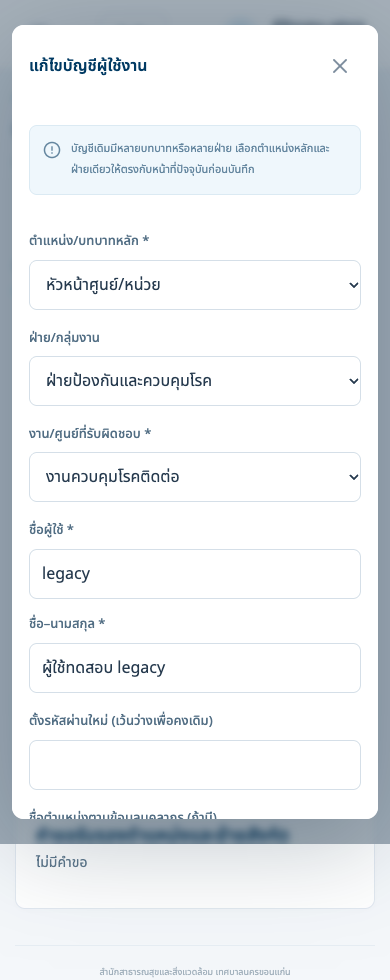
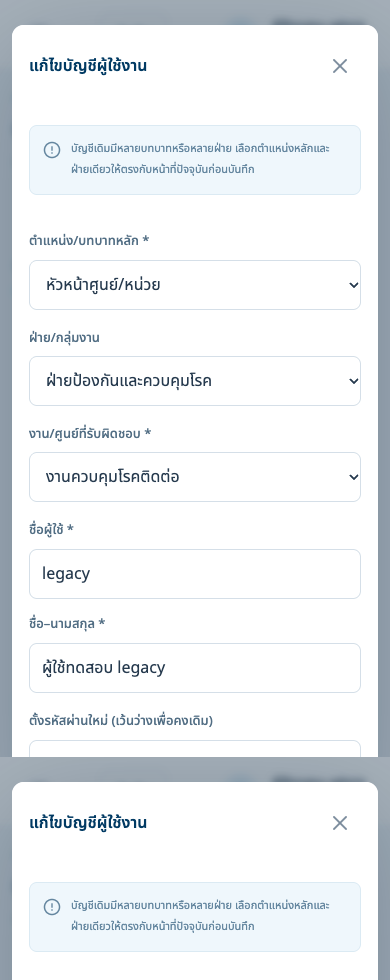
Match application blue theme to login palette

diff --git a/src/styles.css b/src/styles.css
@@ -7,6 +7,7 @@
   --deep: #001f36;
   --sky: #00adff;
   --blue: #027fbd;
+  --brand-gradient: linear-gradient(135deg, var(--navy), var(--deep));
   --line: #e1e8f0;
   --muted: #78899a;
   --radius: 12px;
@@ -1783,7 +1784,7 @@ footer {
   background: white;
 }
 .login-brand {
-  background: linear-gradient(135deg, #013a63, #001f36);
+  background: var(--brand-gradient);
   padding: 48px 65px 32px;
   display: flex;
   flex-direction: column;
@@ -3775,19 +3776,20 @@ footer {
 .community-map{width:100%;height:auto;max-height:420px;display:block;background:#f8fafc;border-radius:12px;margin:18px 0}.community-map g{cursor:pointer}.community-map g:focus circle{stroke:#073e61;stroke-width:4}.community-map text{fill:#31536d}.scope-activity summary{font-weight:600;cursor:pointer}.period-comparison{margin-bottom:20px}.scope-account .button{margin:5px}.scope-cards .button{white-space:normal}
 .login-page{min-height:100vh;background:#f3f7fb;padding:40px 20px;display:flex;justify-content:center;align-items:flex-start}.login-page>.panel{width:min(100%,620px);margin:0 auto}.registration-seal{width:64px;height:64px;object-fit:contain}.login-page h1{font-size:26px;margin:12px 0}.login-page .form{gap:20px}
 
-/* Reference e-office navigation: direct destinations and a calm green rail. */
+/* Shared login and application blue palette. */
 .sidebar {
-  background: #14412f;
-  border-color: #214f3d;
-  color: #eaf4ee;
+  background: var(--navy);
+  background-image: var(--brand-gradient);
+  border-color: var(--navy);
+  color: #eaf5fc;
 }
 .sidebar .brand {
   color: #fff;
-  border-top-color: #78b59b;
+  border-top-color: var(--sky);
   padding-bottom: 16px;
 }
 .sidebar .brand span {
-  color: #b9d4c5;
+  color: #b9d6ed;
 }
 .sidebar .workspace {
   background: #ffffff0b;
@@ -3795,15 +3797,15 @@ footer {
   margin-bottom: 20px;
 }
 .sidebar .workspace b {
-  color: #f2faf5;
+  color: #f2f8ff;
 }
 .sidebar .workspace small,
 .sidebar .nav-label {
-  color: #bdd4c6;
+  color: #bdd8eb;
 }
 .sidebar .workspace-symbol {
   background: #ffffff17;
-  color: #ceebdc;
+  color: #cce8fa;
 }
 .sidebar nav {
   flex: 1;
@@ -3811,7 +3813,7 @@ footer {
   padding-bottom: 14px;
 }
 .sidebar nav button {
-  color: #eaf4ee;
+  color: #eaf5fc;
   min-height: 45px;
   padding: 11px 12px;
 }
@@ -3819,9 +3821,9 @@ footer {
   background: #ffffff12;
 }
 .sidebar nav button.active {
-  color: #14412f;
-  background: #eaf4ee;
-  box-shadow: none;
+  color: var(--navy);
+  background: #eaf5fc;
+  box-shadow: inset 3px 0 var(--sky);
 }
 .sidebar-bottom {
   border-color: #ffffff22;
@@ -3830,7 +3832,7 @@ footer {
 }
 .sidebar-bottom a,
 .sidebar-bottom span {
-  color: #bfd9cb;
+  color: #bdd8eb;
 }
 .project-card {
   scroll-margin-top: 100px;
@@ -3842,13 +3844,13 @@ footer {
   max-width: none;
 }
 .project-drop {
-  border: 1px dashed #83ab97;
-  background: #f4faf6;
+  border: 1px dashed #9cc7e0;
+  background: #f2f8fc;
   border-radius: 12px;
   padding: 18px;
 }
 .project-drop small {
-  color: #526c60;
+  color: #57788e;
   display: block;
   margin-top: 8px;
 }
@@ -3881,7 +3883,7 @@ footer {
   gap: 18px;
   font-size: 13px;
   margin: 18px 0;
-  color: #2e6b4d;
+  color: var(--navy);
 }
 .calendar-legend span:nth-child(2) {
   color: #197aab;
@@ -3897,7 +3899,7 @@ footer {
 .schedule-weekday {
   text-align: center;
   padding: 10px 0;
-  color: #60756b;
+  color: #60798d;
   font-size: 13px;
 }
 .schedule-day {
@@ -3911,14 +3913,14 @@ footer {
   overflow: hidden;
 }
 .schedule-day:hover {
-  background: #f5faf7;
+  background: #f3f9fd;
 }
 .schedule-day.is-today {
-  box-shadow: inset 0 0 0 2px #43846a;
+  box-shadow: inset 0 0 0 2px var(--blue);
 }
 .schedule-day.is-selected {
-  border-color: #14412f;
-  background: #edf6f0;
+  border-color: var(--navy);
+  background: #edf6fd;
 }
 .schedule-day time {
   display: block;
@@ -3926,7 +3928,7 @@ footer {
   margin-bottom: 6px;
 }
 .schedule-day small {
-  color: #61756b;
+  color: #60798d;
   font-size: 11px;
 }
 .schedule-chip {
@@ -3934,8 +3936,8 @@ footer {
   border-radius: 5px;
   margin-top: 4px;
   padding: 3px 5px;
-  background: #e3f0e7;
-  color: #215239;
+  background: #e8f3fc;
+  color: var(--navy);
   white-space: nowrap;
   text-overflow: ellipsis;
   overflow: hidden;

diff --git a/docs/PROJECT-AUTOMATION.md b/docs/PROJECT-AUTOMATION.md
@@ -34,7 +34,7 @@
 
 ## หน้าจอ
 
-แถบข้างสีเขียวตามตัวอย่าง มีทางเข้าโดยตรง: รายงานจาก LINE, เขียนรายงาน, แดชบอร์ดของฉัน, ติดตามโครงการ, ปฏิทิน, แดชบอร์ดหน่วยงาน/สำนักตามสิทธิ์ และเมนูเดิมสำหรับคลัง รายงานสรุป พื้นที่งาน และดูแลระบบ มือถือใช้ปุ่มเปิด–ปิดเมนู
+แถบข้างโทนฟ้าเดียวกับหน้า Login มีทางเข้าโดยตรง: รายงานจาก LINE, เขียนรายงาน, แดชบอร์ดของฉัน, ติดตามโครงการ, ปฏิทิน, แดชบอร์ดหน่วยงาน/สำนักตามสิทธิ์ และเมนูเดิมสำหรับคลัง รายงานสรุป พื้นที่งาน และดูแลระบบ มือถือใช้ปุ่มเปิด–ปิดเมนู
 
 - [ตรวจงานก่อนแจกบนคอมพิวเตอร์](project-automation/intake-review-desktop.png)
 - [ปฏิทินบนคอมพิวเตอร์](project-automation/calendar-desktop.png)
